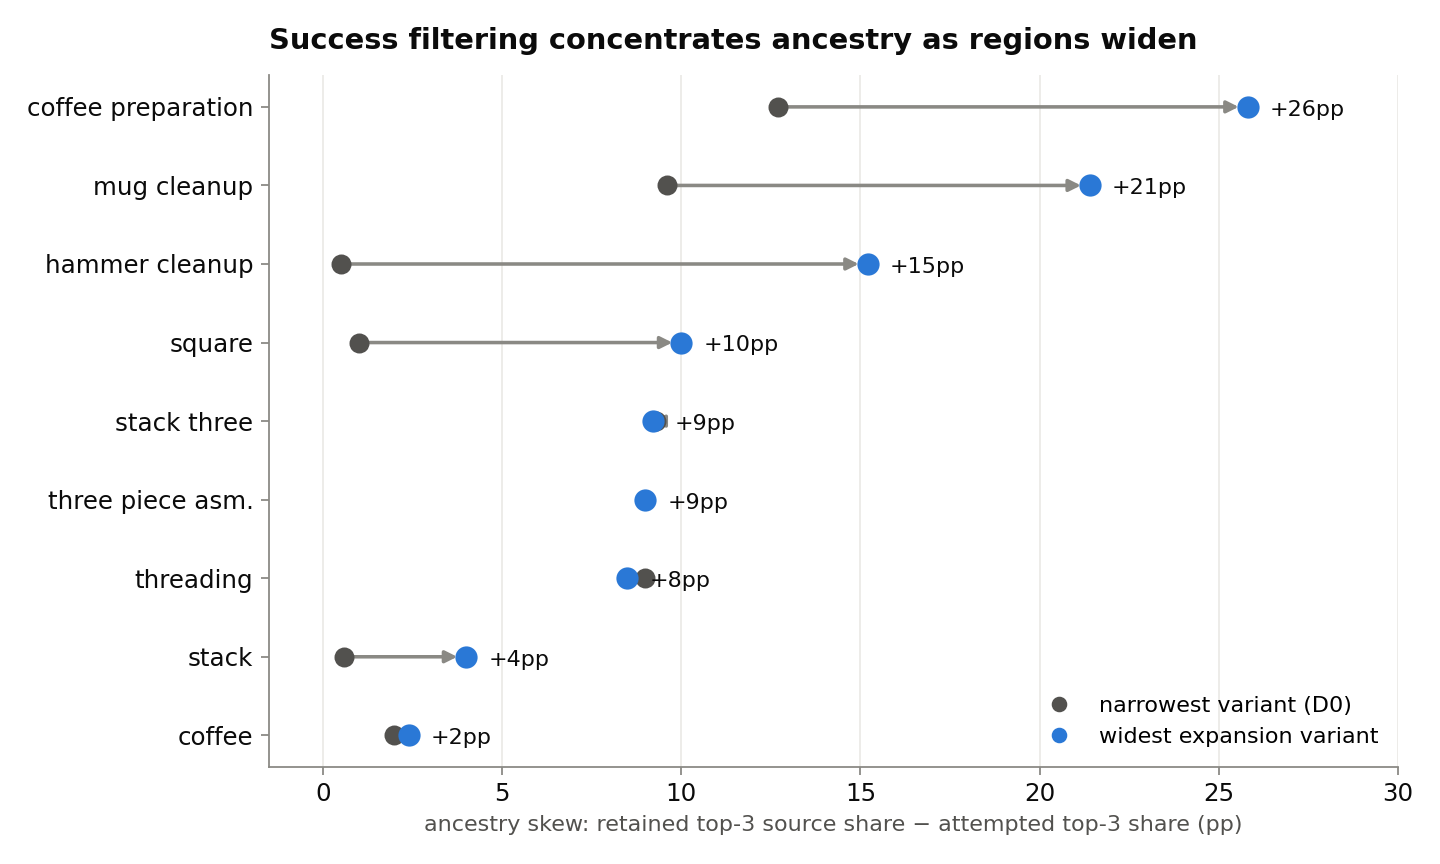
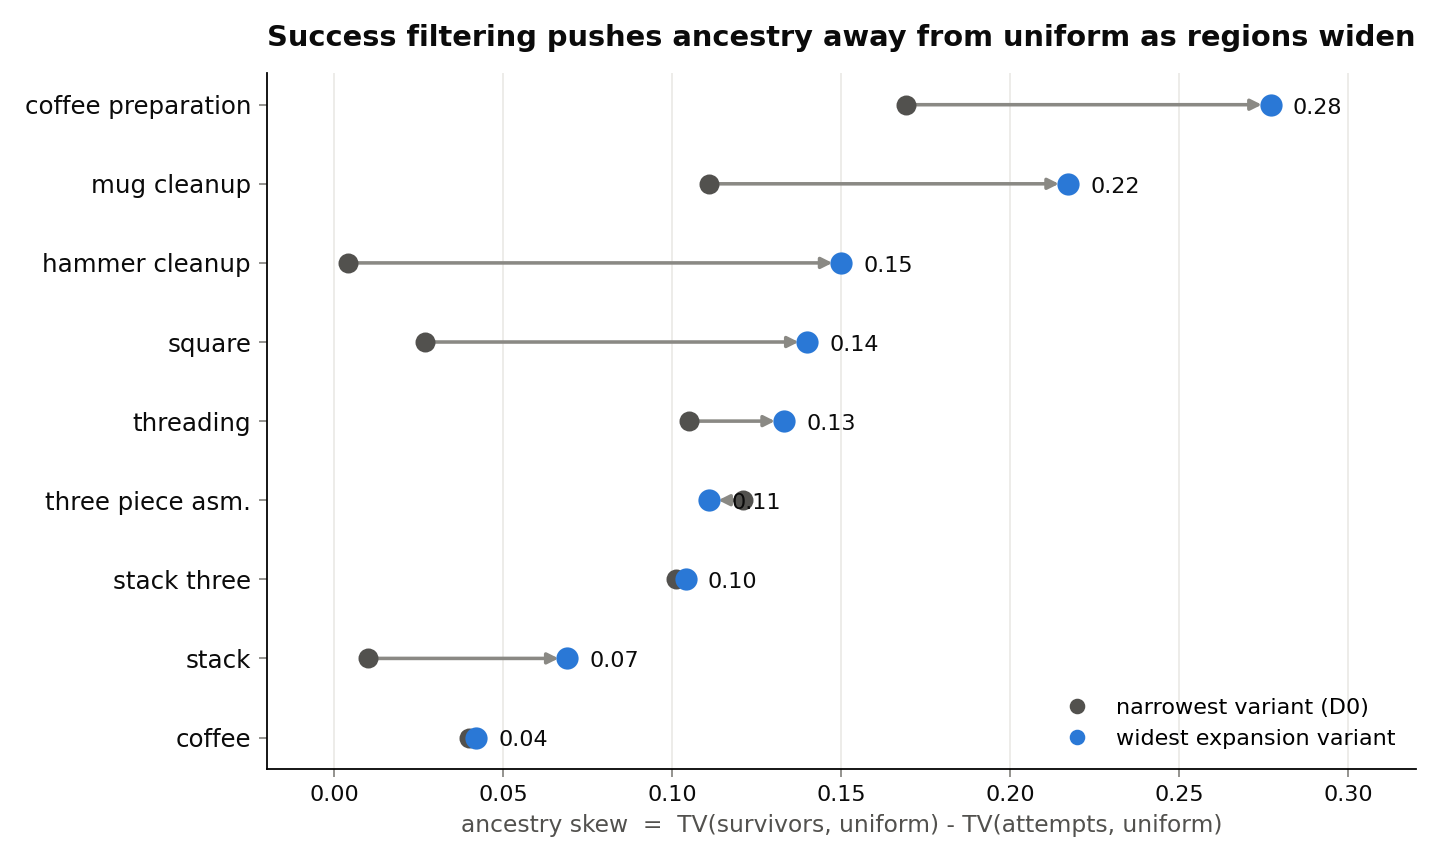
보고서: 조상 편향 지표를 top-3 share -> uniform 거리(TV)로 교체 (임의 파라미터 제거)
- ancestry.py: skew_tv = TV(retained,uniform) - TV(attempts,uniform) + n_eff 유지
- dumbbell 그림 TV로 재생성; 메시지·순위 동일 (attempts TV 0.04~0.07로 uniform 확인)
- 수식은 GitHub 네이티브 math 펜스, 인라인 기호는 백틱 (raw $$ 노출 방지)

diff --git a/motivation/genaudit/analysis/ancestry.py b/motivation/genaudit/analysis/ancestry.py
@@ -15,10 +15,19 @@ class AncestryStats:
     attempted_counts: tuple[int, ...]
     retained_counts: tuple[int, ...]
     per_source_success_rate: tuple[float, ...]
+    # Primary skew metric: total-variation distance from the uniform ancestry
+    # distribution — parameter-free (no arbitrary "top-k"), bounded in
+    # [0, 1 - 1/N], read as "the fraction of demos that would have to change
+    # source to make the ancestry uniform". Reported for attempts and
+    # survivors; skew_tv isolates the filtering-induced increase.
+    tv_uniform_attempted: float
+    tv_uniform_retained: float
+    skew_tv: float  # TV_retained - TV_attempted
+    n_eff_retained: float  # inverse-Simpson effective number of ancestors
+    # kept for continuity with the earlier report / cross-checking only
     top3_share_attempted: float
     top3_share_retained: float
-    skew_pp: float  # (retained top-3 share - attempted top-3 share) * 100
-    n_eff_retained: float  # 1 / sum q_i^2 over retained shares
+    skew_pp: float
 
 
 def _top_k_share(counts: np.ndarray, k: int = 3) -> float:
@@ -26,6 +35,16 @@ def _top_k_share(counts: np.ndarray, k: int = 3) -> float:
     if total == 0:
         raise ValueError("empty counts")
     return float(np.sort(counts)[::-1][:k].sum() / total)
+
+
+def _tv_to_uniform(counts: np.ndarray) -> float:
+    """Total-variation distance of a count distribution from uniform."""
+    total = counts.sum()
+    if total == 0:
+        raise ValueError("empty counts")
+    shares = counts / total
+    n = len(counts)
+    return float(0.5 * np.abs(shares - 1.0 / n).sum())
 
 
 def ancestry_stats(records: Sequence[AttemptRecord], num_sources: int) -> AncestryStats:
@@ -46,6 +65,8 @@ def ancestry_stats(records: Sequence[AttemptRecord], num_sources: int) -> Ancest
     )
     shares = retained / retained.sum()
     n_eff = 1.0 / float(np.square(shares).sum())
+    tv_att = _tv_to_uniform(attempted)
+    tv_ret = _tv_to_uniform(retained)
     top3_attempted = _top_k_share(attempted)
     top3_retained = _top_k_share(retained)
     return AncestryStats(
@@ -53,10 +74,13 @@ def ancestry_stats(records: Sequence[AttemptRecord], num_sources: int) -> Ancest
         attempted_counts=tuple(int(count) for count in attempted),
         retained_counts=tuple(int(count) for count in retained),
         per_source_success_rate=tuple(float(rate) for rate in success_rates),
+        tv_uniform_attempted=tv_att,
+        tv_uniform_retained=tv_ret,
+        skew_tv=tv_ret - tv_att,
+        n_eff_retained=n_eff,
         top3_share_attempted=top3_attempted,
         top3_share_retained=top3_retained,
         skew_pp=(top3_retained - top3_attempted) * 100.0,
-        n_eff_retained=n_eff,
     )
 
 

diff --git a/Motivation_Extended_Tasks.md b/Motivation_Extended_Tasks.md
@@ -20,7 +20,7 @@ MimicGen은 사람 데모 하나를 그대로 복사하는 게 아니라, 물체
 
 ### 이 연구가 의심하는 지점
 
-문제는 마지막 단계, "성공한 것만 남기기"다. 이 방법이 잘 되는지를 재는 표준 지표는 **DGR**(data generation rate, 데이터 생성 성공률)로, 생성을 시도한 횟수 중 성공해서 데이터셋에 남은 비율이다($\text{DGR} = (\text{성공 수})/(\text{시도 수})$). 그런데 DGR은 "얼마나 자주 남는가"만 알려줄 뿐 **"무엇이 남는가"** 는 말해주지 않는다. 만약 성공하기 쉬운 특정 조건의 데모만 살아남는다면, 최종 데이터셋은 원래 넓게 탐색했던 다양성을 잃어버린다. DGR이 같아도 이런 편향의 정도는 얼마든지 다를 수 있고, 그 편향은 결국 이 데이터로 학습한 로봇의 성능에 영향을 준다.
+문제는 마지막 단계, "성공한 것만 남기기"다. 이 방법이 잘 되는지를 재는 표준 지표는 **DGR**(data generation rate, 데이터 생성 성공률)로, 생성을 시도한 횟수 중 성공해서 데이터셋에 남은 비율이다(`DGR = 성공 수 / 시도 수`). 그런데 DGR은 "얼마나 자주 남는가"만 알려줄 뿐 **"무엇이 남는가"** 는 말해주지 않는다. 만약 성공하기 쉬운 특정 조건의 데모만 살아남는다면, 최종 데이터셋은 원래 넓게 탐색했던 다양성을 잃어버린다. DGR이 같아도 이런 편향의 정도는 얼마든지 다를 수 있고, 그 편향은 결국 이 데이터로 학습한 로봇의 성능에 영향을 준다.
 
 ### 지난 실험에서 관찰한 것 (4개 task)
 
@@ -43,17 +43,21 @@ MimicGen은 사람 데모 하나를 그대로 복사하는 게 아니라, 물체
 
 **한 줄 정의**: 어떤 합성 시도에서, 각 물체가 원본 데모에서 놓였던 위치와 지금 합성 장면에서 놓인 위치가 얼마나 떨어져 있는지를 잰 값. 물체가 여럿이면 각 물체의 거리를 합친다.
 
-한 합성 시도를 $i$라 하고, 그 시도가 원본 데모 $s(i)$ 를 변형해 만들어졌다고 하자. 태스크에 움직이는 물체가 $M$ 개 있고, 물체 $m$ 의 초기 위치가 원본에서는 $x^{\text{src}}_{m}$, 이번 합성 장면에서는 $x_{m}(i)$ 라면 변형 거리는
+한 합성 시도를 `i`라 하고, 그 시도가 원본 데모 `s(i)`를 변형해 만들어졌다고 하자. 태스크에 움직이는 물체가 `M`개 있고, 물체 `m`의 초기 위치가 원본에서는 `x_src(m)`, 이번 합성 장면에서는 `x(m,i)`라면 변형 거리는 각 물체가 옮겨간 직선거리의 합이다.
 
-$$d_{\text{raw}}(i) \;=\; \sum_{m=1}^{M} \bigl\lVert\, x_{m}(i) - x^{\text{src}}_{m}\, \bigr\rVert_{2} \quad [\text{m}]$$
+```math
+d_{\text{raw}}(i) = \sum_{m=1}^{M} \lVert x_{m}(i) - x^{\text{src}}_{m} \rVert_{2} \quad [\text{m}]
+```
 
 - **왜 이 값인가** — MimicGen은 원본 궤적을 새 물체 위치로 "옮겨서" 쓴다. 옮기는 거리가 멀수록 원본 궤적을 많이 왜곡해야 하고, 그만큼 실행이 어긋나 실패하기 쉽다. 그래서 이 거리가 곧 "이 시도가 얼마나 어려운 변형인가"의 척도가 된다.
-- **어떻게 재는가** — 한 합성 시도가 시작될 때 각 물체의 초기 위치 $x_m(i)$ 를 기록해 두면, 그 시도가 어느 원본에서 왔는지 $s(i)$ 도 함께 기록되므로(아래 조상 편향 참조) 원본의 그 물체 위치 $x^{\text{src}}_m$ 와의 직선거리를 물체마다 계산해 합한다. 단위는 미터다. 예를 들어 Square에서 너트가 원본보다 20cm, 페그가 15cm 떨어진 곳에 놓였다면 이 시도의 변형 거리는 0.35m다.
-- **태스크 간 비교를 위한 정규화** — 태스크마다 물체 크기와 영역 크기가 다르므로, 태스크끼리 겹쳐 비교할 때는 각 물체의 거리를 그 물체가 놓일 수 있는 영역(가장 넓은 변형 기준)의 대각선 길이 $L_m$ 으로 나눠 평균한다.
+- **어떻게 재는가** — 한 합성 시도가 시작될 때 각 물체의 초기 위치를 기록해 두면, 그 시도가 어느 원본에서 왔는지도 함께 기록되므로(아래 조상 편향 참조) 원본의 그 물체 위치와의 직선거리를 물체마다 계산해 합한다. 단위는 미터다. 예를 들어 Square에서 너트가 원본보다 20cm, 페그가 15cm 떨어진 곳에 놓였다면 이 시도의 변형 거리는 0.35m다.
+- **태스크 간 비교를 위한 정규화** — 태스크마다 물체 크기와 영역 크기가 다르므로, 태스크끼리 겹쳐 비교할 때는 각 물체의 거리를 그 물체가 놓일 수 있는 영역(가장 넓은 변형 기준)의 대각선 길이 `L_m`으로 나눠 평균한다.
 
-$$d_{\text{norm}}(i) \;=\; \frac{1}{M}\sum_{m=1}^{M} \frac{\bigl\lVert\, x_{m}(i) - x^{\text{src}}_{m}\, \bigr\rVert_{2}}{L_{m}} \;\in\; [0,\,1]$$
+```math
+d_{\text{norm}}(i) = \frac{1}{M}\sum_{m=1}^{M} \frac{\lVert x_{m}(i) - x^{\text{src}}_{m} \rVert_{2}}{L_{m}} \in [0, 1]
+```
 
-  0은 원본과 같은 자리, 1은 그 영역에서 갈 수 있는 가장 먼 곳을 뜻한다. 다만 한 태스크 안에서의 경향을 볼 때는 $d_{\text{raw}}$ 와 $d_{\text{norm}}$ 이 사실상 같은 결과를 준다(9개 태스크 모두에서 두 정의로 잰 성공률-거리 상관의 차이가 0.003 이하). 그래서 본문에서는 직관적인 미터 단위 $d_{\text{raw}}$ 로 이해하면 된다.
+  0은 원본과 같은 자리, 1은 그 영역에서 갈 수 있는 가장 먼 곳을 뜻한다. 다만 한 태스크 안에서의 경향을 볼 때는 미터 단위(`d_raw`)와 정규화 값(`d_norm`)이 사실상 같은 결과를 준다(9개 태스크 모두에서 두 정의로 잰 성공률-거리 상관의 차이가 0.003 이하). 그래서 본문에서는 직관적인 미터 단위로 이해하면 된다.
 
 이 실험에서 난이도 변형 D0 → D1 → D2는 결국 "변형 거리 분포를 오른쪽으로(더 멀게) 미는" 조작이다. 좁은 D0 영역에서는 물체가 원본 근처에만 놓이므로 변형 거리가 작고, 넓은 D2 영역에서는 멀리까지 놓이므로 변형 거리가 커진다.
 
@@ -61,22 +65,34 @@ $$d_{\text{norm}}(i) \;=\; \frac{1}{M}\sum_{m=1}^{M} \frac{\bigl\lVert\, x_{m}(i
 
 **배경 개념**: 합성 데모 하나하나는 반드시 원본 데모 10개 중 **어느 하나**를 변형해서 만든 것이다. 그 "부모" 원본을 이 데모의 **조상(ancestry)** 이라고 부른다. MimicGen은 매 시도마다 원본을 무작위로 고르므로, **시도 단계에서는** 10개 원본이 거의 고르게 쓰인다(각각 약 10%). 문제는 성공해서 **살아남은** 데모들의 조상 분포다. 특정 원본이 유난히 잘 성공한다면, 최종 데이터셋은 그 소수 원본의 후손으로 채워진다.
 
-**한 줄 정의**: 살아남은 데모에서 상위 3개 조상이 차지하는 비중이, 시도 단계에서 상위 3개 조상이 차지했던 비중보다 얼마나 커졌는지(단위: %포인트).
+**한 줄 정의**: 살아남은 데모의 조상 분포가 완전히 고른(uniform) 분포에서 얼마나 멀어졌는지를, 시도 단계 대비 증가분으로 잰 값.
 
-원본이 $N=10$ 개라 하자. 시도 단계에서 원본 $j$ 가 쓰인 횟수를 $a_j$, 그중 성공해 살아남은 횟수를 $r_j$ 라 하고, 각 단계의 점유 비율을
+원본이 `N=10`개라 하자. 시도 단계에서 원본 `j`가 쓰인 횟수를 `a_j`, 그중 성공해 살아남은 횟수를 `r_j`라 하고, 각 단계의 점유 비율을 다음처럼 둔다.
 
-$$p^{\text{att}}_j = \frac{a_j}{\sum_k a_k}, \qquad p^{\text{ret}}_j = \frac{r_j}{\sum_k r_k}$$
+```math
+p^{\text{att}}_j = \frac{a_j}{\sum_k a_k}, \qquad p^{\text{ret}}_j = \frac{r_j}{\sum_k r_k}
+```
 
-라 두자. 어떤 비율 벡터 $p$ 의 상위 3개 합을 $\text{Top}_3(p)=\sum_{j\in\text{top-3}(p)} p_j$ 로 정의하면, 조상 편향은
+거리 척도로는 **total-variation 거리(TV)** 를 쓴다. 이는 어떤 비율 분포 `p`가 완전히 고른 분포(각 원본 `1/N`)에서 떨어진 정도로, "몇 %의 데모를 다른 원본으로 옮겨야 uniform이 되는가"로 읽힌다.
 
-$$\text{skew} \;=\; \bigl(\text{Top}_3(p^{\text{ret}}) - \text{Top}_3(p^{\text{att}})\bigr)\times 100 \quad [\text{\%p}]$$
+```math
+\mathrm{TV}(p) = \tfrac{1}{2}\sum_{j=1}^{N} \left| p_j - \frac{1}{N} \right| \in \left[0,\ 1 - \tfrac{1}{N}\right]
+```
 
-- **왜 상위 3개인가** — 원본이 10개이므로 완전히 고르면 어느 3개든 30%를 차지한다. 위 값이 0에 가까우면 필터링이 조상을 거의 안 건드린 것이고, 클수록 소수 조상으로 쏠린 것이다. 시도 단계 값 $\text{Top}_3(p^{\text{att}})$ 을 빼주는 이유는, 무작위 선택이라도 우연히 생기는 약간의 불균형을 기준선으로 상쇄하고 **필터링이 추가로 만든 쏠림만** 보기 위해서다.
-- **함께 보는 값: 유효 조상 수 ($n_{\text{eff}}$)** — 살아남은 데모의 조상 분포가 실질적으로 원본 몇 개에서 나온 셈인지를 하나의 숫자로 요약한 것으로, 역-심슨 지수로 정의한다.
+조상 편향은 살아남은 분포의 TV에서 시도 분포의 TV를 뺀, **필터링이 만든 증가분**으로 정의한다.
 
-$$n_{\text{eff}} \;=\; \frac{1}{\sum_{j=1}^{N} \bigl(p^{\text{ret}}_j\bigr)^2}$$
+```math
+\text{skew} = \mathrm{TV}(p^{\text{ret}}) - \mathrm{TV}(p^{\text{att}})
+```
 
-  분포가 완전히 고르면 $n_{\text{eff}}=10$, 한 원본에 다 쏠리면 1이다. 예를 들어 뒤에 나오는 mug cleanup의 가장 넓은 변형에서는 $n_{\text{eff}}=6.9$ 로, 원본 10개 중 실질적으로 7개 정도만 데이터에 기여한 셈이다.
+- **어떻게 읽나** — 값이 0이면 살아남은 조상이 완전히 고른 것, 커질수록 소수 원본으로 쏠린 것이다(최대 `1 - 1/N = 0.9`). 분포 전체가 uniform에서 떨어진 정도를 재는 표준 거리라 고를 임의 파라미터가 없다. 시도 분포의 TV를 빼주는 이유는, 무작위 선택이라도 우연히 생기는 약간의 불균형을 기준선으로 상쇄하고 **필터링이 추가로 만든 쏠림만** 보기 위해서다. 실제로 시도 분포의 TV는 9개 태스크 모두에서 0.04~0.07로 작아(무작위 선택이 잘 작동해 시도는 uniform에 가깝다는 확인이다), skew는 대체로 살아남은 분포의 쏠림 그 자체다.
+- **함께 보는 값: 유효 조상 수 (`n_eff`)** — 살아남은 데모의 조상 분포가 실질적으로 원본 몇 개에서 나온 셈인지를 하나의 숫자로 요약한 것으로, 역-심슨 지수로 정의한다.
+
+```math
+n_{\text{eff}} = \frac{1}{\sum_{j=1}^{N} \left(p^{\text{ret}}_j\right)^2}
+```
+
+  분포가 완전히 고르면 `n_eff = 10`, 한 원본에 다 쏠리면 1이다. 예를 들어 뒤에 나오는 mug cleanup의 가장 넓은 변형에서는 `n_eff = 6.9`로, 원본 10개 중 실질적으로 7개 정도만 데이터에 기여한 셈이다.
 - **왜 중요한가** — 이 편향은 "어떤 물체 위치가 데이터에 많고 적은가"(초기조건의 편향)와는 다른, 한 겹 더 깊은 편향이다. 조상이 쏠린다는 것은 곧 그 소수 원본의 **동작 방식**이 데이터를 지배한다는 뜻이고, 로봇이 배우는 행동의 다양성이 좁아질 수 있다.
 
 ## 이번에 정비한 것 두 가지
@@ -118,12 +134,13 @@ $$n_{\text{eff}} \;=\; \frac{1}{\sum_{j=1}^{N} \bigl(p^{\text{ret}}_j\bigr)^2}$$
 
 <img src="figures/motivation_ext/ancestry_skew_dumbbell.png" width="100%">
 
-가로축은 조상 편향(살아남은 데모의 상위 3개 조상 비중 − 시도 단계 상위 3개 비중, %포인트)이다. 회색 점이 가장 좁은 변형(D0), 파란 점이 가장 넓은 확장 변형이고, 화살표 길이가 곧 "영역을 넓혔을 때 쏠림이 얼마나 커졌는가"다.
+가로축은 조상 편향(살아남은 조상 분포의 uniform 거리 − 시도 조상 분포의 uniform 거리, TV)이다. 회색 점이 가장 좁은 변형(D0), 파란 점이 가장 넓은 확장 변형이고, 화살표 길이가 곧 "영역을 넓혔을 때 조상이 uniform에서 얼마나 더 멀어졌는가"다.
 
-- **영역을 넓히면 쏠림이 커진다** — 이번에 추가한 태스크들에서 특히 뚜렷하다. coffee preparation은 +12.7 → +25.8%p, mug cleanup은 +9.6 → +21.4%p, hammer cleanup은 +0.5 → +15.2%p로 벌어진다.
-- **쉬운 태스크에서는 쏠림이 거의 없다** — stack(+4)과 coffee(+2)처럼 성공률이 높은 태스크는 어중간한 원본도 살아남으므로 조상이 고르게 유지된다. 지난 실험에서 본 "필터링 압력이 커야 원본 간 품질 차이가 드러난다"는 메커니즘 그대로다. 결과 1의 하락 폭과 결과 2의 쏠림이 같은 방향으로 움직인다.
+- **영역을 넓히면 조상이 uniform에서 멀어진다** — 이번에 추가한 태스크들에서 특히 뚜렷하다. coffee preparation은 0.17 → 0.28, mug cleanup은 0.11 → 0.22, hammer cleanup은 0.00 → 0.15로 벌어진다.
+- **쉬운 태스크에서는 쏠림이 거의 없다** — stack(0.07)과 coffee(0.04)처럼 성공률이 높은 태스크는 어중간한 원본도 살아남으므로 조상이 고르게 유지된다. 지난 실험에서 본 "필터링 압력이 커야 원본 간 품질 차이가 드러난다"는 메커니즘 그대로다. 결과 1의 하락 폭과 결과 2의 쏠림이 같은 방향으로 움직인다.
+- (stack three·three piece처럼 이미 D0에서도 성공률이 낮은 태스크는 좁은 변형에서부터 조상이 어느 정도 쏠려 있어, 넓혀도 화살표가 짧거나 거의 제자리다 — 필터링 압력이 D0부터 이미 높기 때문이다.)
 
-가장 심한 mug cleanup의 가장 넓은 변형(D2E)을 예로 보면, 시도는 원본별로 42~60회로 고른데 **살아남은 65개 중 절반 이상(55%)이 상위 3개 원본에서 나왔고, 10개 중 2개 원본은 후손을 거의 또는 전혀 남기지 못했다**(s7은 56번 시도해 생존 0). 유효 조상 수로 환산하면 좁은 D0에서 8.5개였던 것이 D2E에서 6.9개로 줄어, 원본 10개 중 실질적으로 7개 정도만 데이터에 기여한 셈이다.
+가장 심한 mug cleanup의 가장 넓은 변형(D2E)을 예로 보면, 시도는 원본별로 42~60회로 고른데 **살아남은 65개의 조상 분포가 크게 쏠려, 10개 중 2개 원본은 후손을 거의 또는 전혀 남기지 못했다**(s7은 56번 시도해 생존 0, s0은 53번에 1개). 유효 조상 수로 환산하면 좁은 D0에서 8.5개였던 것이 D2E에서 6.9개로 줄어, 원본 10개 중 실질적으로 7개 정도만 데이터에 기여한 셈이다(uniform 거리로는 skew 0.11 → 0.22).
 
 | 원본 (Src) | 시도 (Attempted) | 생존 (Retained) | 성공률 | 살아남은 데이터 중 비중 |
 |---|---|---|---|---|
@@ -146,7 +163,7 @@ $$n_{\text{eff}} \;=\; \frac{1}{\sum_{j=1}^{N} \bigl(p^{\text{ret}}_j\bigr)^2}$$
 
 **Takeaway:**
 
-- **두 관찰이 일반화됐다** — "영역을 넓힐수록 생성 성공률이 떨어진다"(9/9 태스크, 예외 0)와 "필터링 압력이 클수록 특정 원본의 후손으로 쏠린다"(최대 +25.8%p)가 태스크 4개에서 9개로 늘려도 유지된다. 4개 태스크의 우연이 아니라 성공-필터링 생성 방식 일반의 성질로 볼 근거가 생겼다.
+- **두 관찰이 일반화됐다** — "영역을 넓힐수록 생성 성공률이 떨어진다"(9/9 태스크, 예외 0)와 "필터링 압력이 클수록 살아남은 조상이 uniform에서 멀어진다"(uniform 거리 skew 최대 0.28)가 태스크 4개에서 9개로 늘려도 유지된다. 4개 태스크의 우연이 아니라 성공-필터링 생성 방식 일반의 성질로 볼 근거가 생겼다.
 - **쏠림의 크기가 처음으로 스펙트럼으로 잡혔다** — "거의 0인 태스크"(stack, coffee)부터 "실질 조상의 3분의 1이 사라지는 태스크"(mug cleanup, coffee preparation)까지. 필터링 압력(낮은 DGR)과 쏠림이 같이 움직이므로, 앞으로 어떤 태스크에서 이 편향을 걱정해야 하는지 예측할 단서가 된다.
 
 **Next Step:** 그렇다면 이 편중이 로봇의 최종 성능(policy 성능)을 실제로 깎는가? 이를 확인하는 정책 실험이 이미 돌아가고 있다.